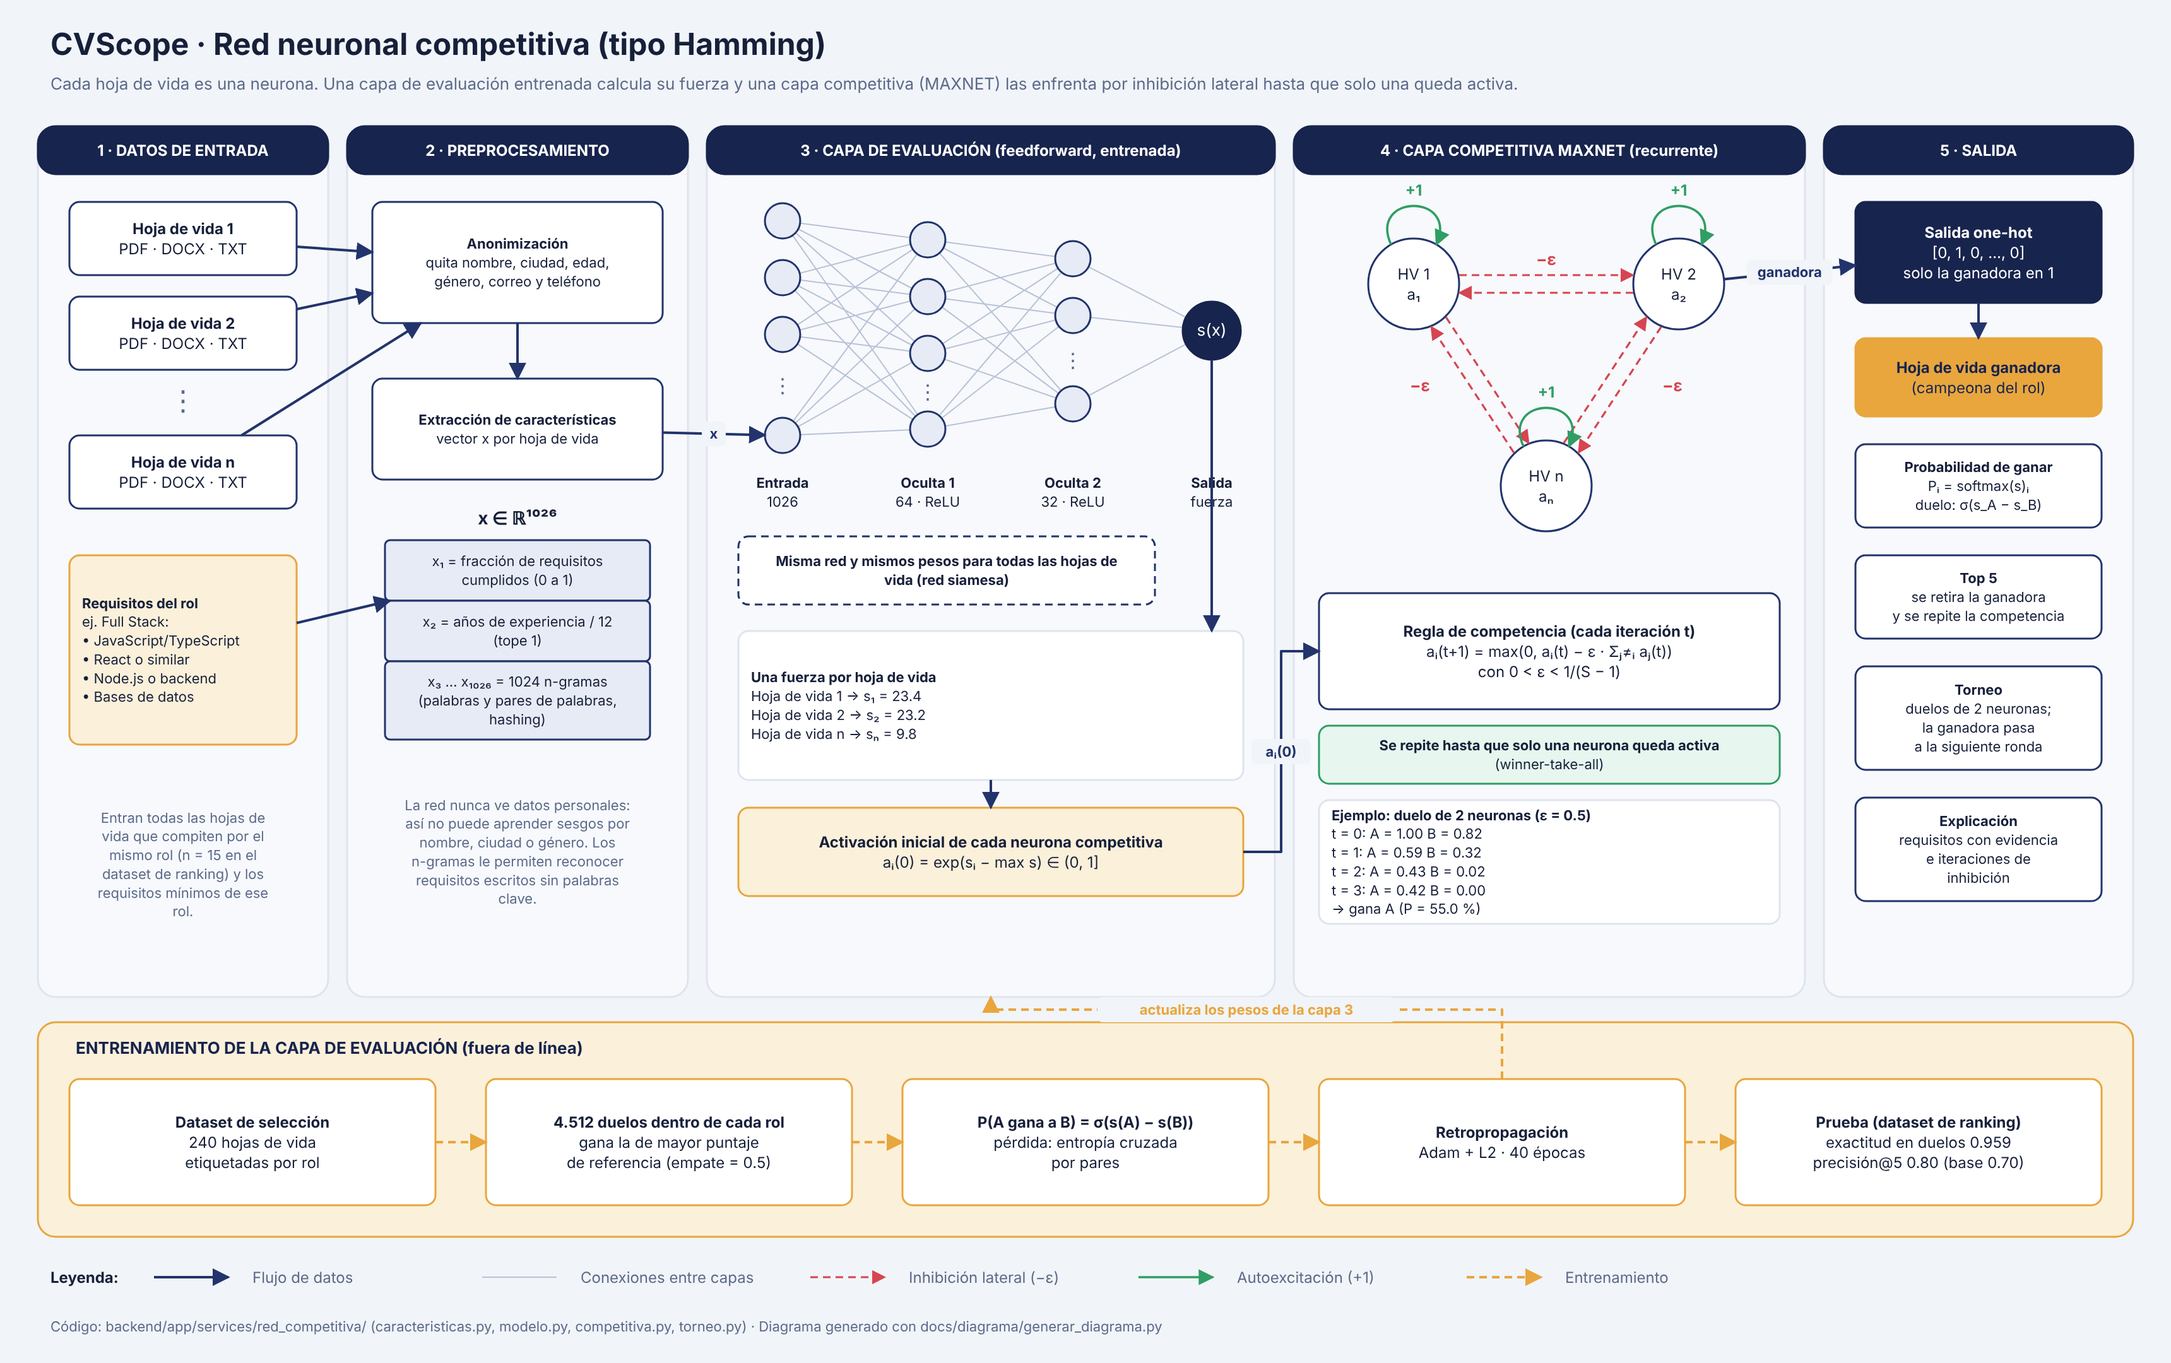
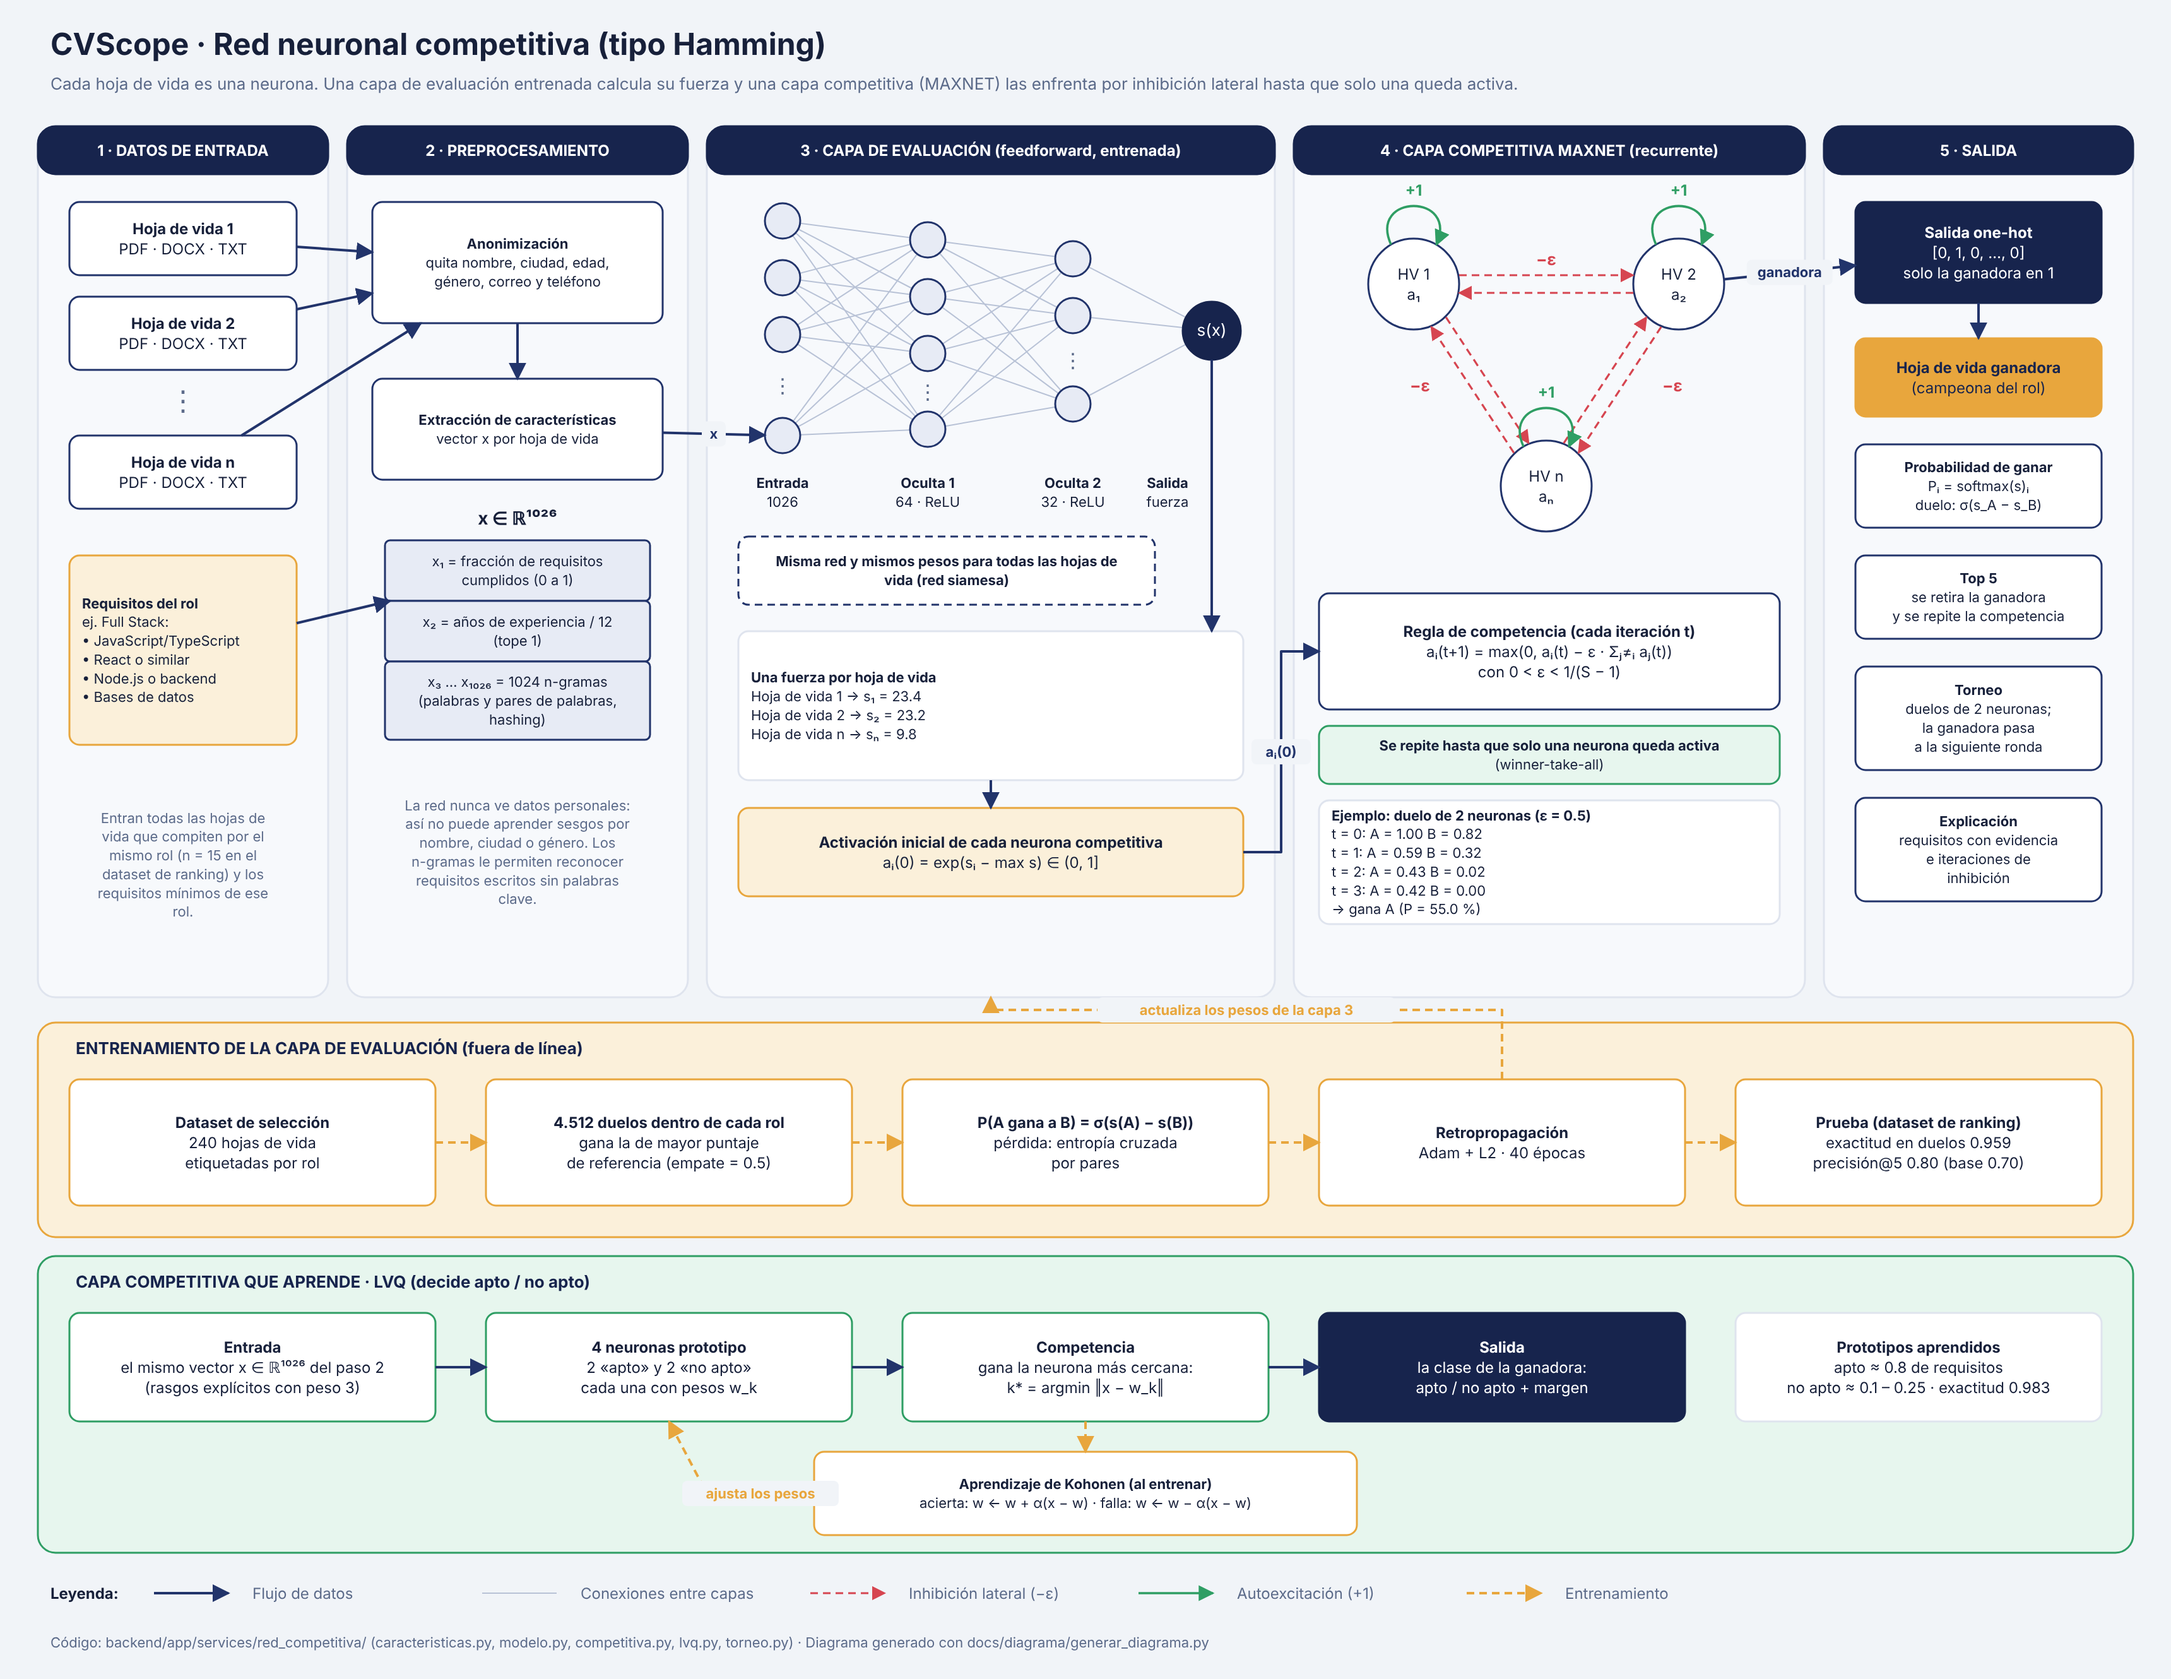
docs(diagrama): agregar la capa competitiva LVQ
Nueva franja con la entrada, las 4 neuronas prototipo, la competencia
por distancia, la salida apto/no apto y el ciclo de aprendizaje de
Kohonen. También se separa la etiqueta de salida de la flecha de s(x).

Changed region(s): [[0.0, 0.0, 0.9953, 0.9926], [0.591, 0.3722, 0.6221, 0.4032]]

diff --git a/docs/diagrama/generar_diagrama.py b/docs/diagrama/generar_diagrama.py
@@ -17,7 +17,7 @@ from pathlib import Path
 from xml.sax.saxutils import escape
 
 SALIDA = Path(__file__).resolve().parent
-ANCHO, ALTO = 1720, 1080
+ANCHO, ALTO = 1720, 1330
 
 # Paleta de la aplicación (frontend/src/index.css)
 NAVY = "#17244d"
@@ -161,7 +161,7 @@ def construir() -> None:
         texto(f"n{c}_t", cx - 50, 372, 100, 36, etiqueta, color=INK, tam=11, negrita=True)
         ids_capas.append(ids)
     neurona("salida_s", 960, 262, 46, "s(x)", fondo=NAVY, borde=NAVY, color="#ffffff", tam=13)
-    texto("salida_s_t", 915, 372, 90, 36, "Salida\nfuerza", color=INK, tam=11, negrita=True)
+    texto("salida_s_t", 896, 372, 58, 36, "Salida\nfuerza", color=INK, tam=11, negrita=True)
     for izq, der in zip(ids_capas, ids_capas[1:]):
         for a in izq:
             for b in der:
@@ -252,8 +252,34 @@ def construir() -> None:
     flecha("e4", "eval_ancla", "entrenamiento", "actualiza los pesos de la capa 3",
            puntos=[(1190, 800), (785, 800)])
 
+    # Capa competitiva que aprende (LVQ) ------------------------------------
+    caja("banda_lvq", 30, 995, 1660, 235, "", fondo=SUCCESS_SOFT, borde=SUCCESS, redondeo=14)
+    texto("lvq_t", 50, 1003, 1200, 26,
+          "CAPA COMPETITIVA QUE APRENDE · LVQ (decide apto / no apto)",
+          color=NAVY, tam=13, negrita=True, alinear="left")
+    caja("l1", 55, 1040, 290, 86, "Entrada\nel mismo vector x ∈ ℝ¹⁰²⁶ del paso 2\n(rasgos explícitos con peso 3)",
+         fondo=SURFACE, borde=SUCCESS, tam=12, negrita=True)
+    caja("l2", 385, 1040, 290, 86, "4 neuronas prototipo\n2 «apto» y 2 «no apto»\ncada una con pesos w_k",
+         fondo=SURFACE, borde=SUCCESS, tam=12, negrita=True)
+    caja("l3", 715, 1040, 290, 86, "Competencia\ngana la neurona más cercana:\nk* = argmin ‖x − w_k‖",
+         fondo=SURFACE, borde=SUCCESS, tam=12, negrita=True)
+    caja("l5", 1045, 1040, 290, 86, "Salida\nla clase de la ganadora:\napto / no apto + margen",
+         fondo=NAVY, borde=NAVY, color="#ffffff", tam=12, negrita=True)
+    caja("l6", 1375, 1040, 290, 86,
+         "Prototipos aprendidos\napto ≈ 0.8 de requisitos\nno apto ≈ 0.1 – 0.25 · exactitud 0.983",
+         fondo=SURFACE, borde=BORDER, tam=12, negrita=True)
+    caja("l4", 645, 1150, 430, 66,
+         "Aprendizaje de Kohonen (al entrenar)\nacierta: w ← w + α(x − w)  ·  falla: w ← w − α(x − w)",
+         fondo=SURFACE, borde=ACCENT, tam=11, negrita=True)
+    flecha("l1", "l2")
+    flecha("l2", "l3")
+    flecha("l3", "l5")
+    flecha("l3", "l4", "entrenamiento")
+    ancla("l2_ancla", 530, 1126)
+    flecha("l4", "l2_ancla", "entrenamiento", "ajusta los pesos", puntos=[(560, 1183)])
+
     # Leyenda ---------------------------------------------------------------
-    texto("ley_t", 30, 1000, 120, 24, "Leyenda:", color=INK, tam=12, negrita=True, alinear="left")
+    texto("ley_t", 30, 1250, 120, 24, "Leyenda:", color=INK, tam=12, negrita=True, alinear="left")
     leyenda = [
         ("flujo", "Flujo de datos"),
         ("conexion", "Conexiones entre capas"),
@@ -263,13 +289,13 @@ def construir() -> None:
     ]
     for k, (tipo, etiqueta) in enumerate(leyenda):
         x = 120 + k * 260
-        caja(f"ley_{tipo}_a", x, 1006, 2, 12, "", fondo="none", borde="none")
-        caja(f"ley_{tipo}_b", x + 60, 1006, 2, 12, "", fondo="none", borde="none")
+        caja(f"ley_{tipo}_a", x, 1256, 2, 12, "", fondo="none", borde="none")
+        caja(f"ley_{tipo}_b", x + 60, 1256, 2, 12, "", fondo="none", borde="none")
         flecha(f"ley_{tipo}_a", f"ley_{tipo}_b", tipo)
-        texto(f"ley_{tipo}_t", x + 70, 1000, 180, 24, etiqueta, tam=12, alinear="left")
-    texto("fuente", 30, 1040, 1660, 22,
+        texto(f"ley_{tipo}_t", x + 70, 1250, 180, 24, etiqueta, tam=12, alinear="left")
+    texto("fuente", 30, 1290, 1660, 22,
           "Código: backend/app/services/red_competitiva/ (caracteristicas.py, modelo.py, "
-          "competitiva.py, torneo.py) · Diagrama generado con docs/diagrama/generar_diagrama.py",
+          "competitiva.py, lvq.py, torneo.py) · Diagrama generado con docs/diagrama/generar_diagrama.py",
           tam=11, alinear="left")
 
 
